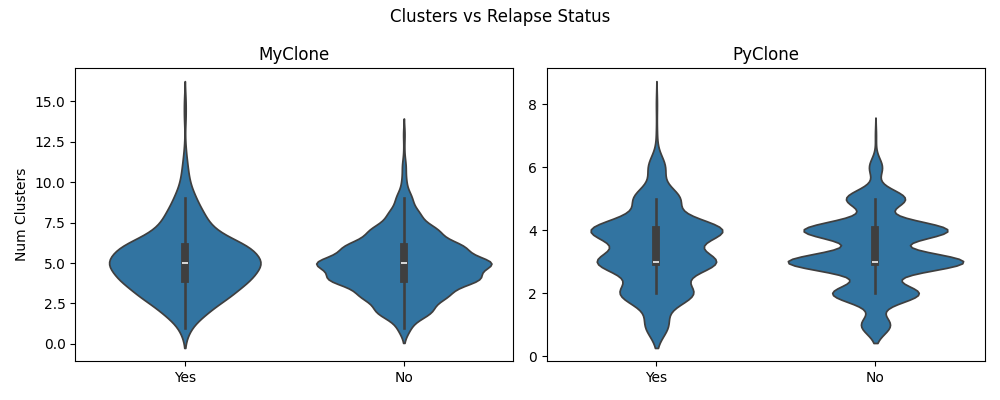
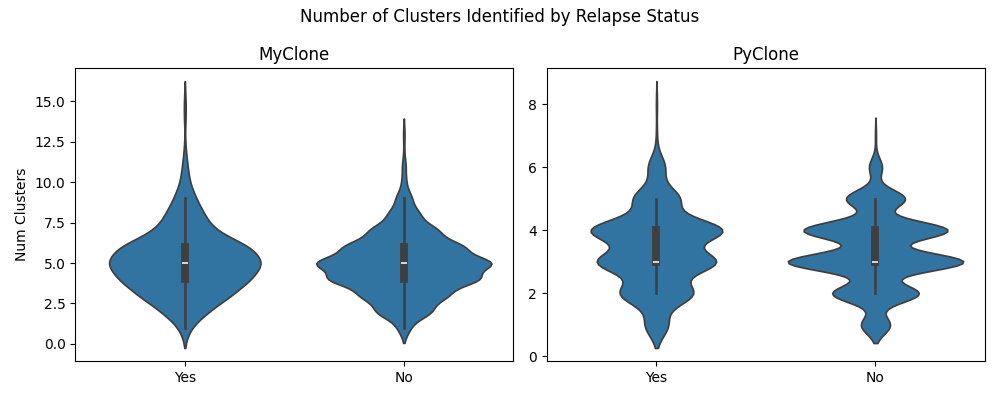
added legend to clonal population fig

Changed region(s): [[0.279, 0.0, 0.713, 0.06]]

diff --git a/generate_figures_combined.py b/generate_figures_combined.py
@@ -3,24 +3,14 @@ import matplotlib.pyplot as plt
 import seaborn as sns
 import os
 
-# ----------------------------
-# Paths
-# ----------------------------
 myclone_path = "/Users/charlottecheung/Developer/FCBBioInfo/fcbbioProject/myclone-output_combined/myclone_results_combined.tsv"
 pyclone_path = "/Users/charlottecheung/Developer/FCBBioInfo/fcbbioProject/pyclone_output_combined/pyclone_output_combined.tsv"
 
 os.makedirs("figures", exist_ok=True)
 
-# ----------------------------
-# Load data
-# ----------------------------
 myclone = pd.read_csv(myclone_path, sep="\t")
 pyclone = pd.read_csv(pyclone_path, sep="\t")
 
-
-# =========================================================
-# Helper function: cluster counts per sample
-# =========================================================
 def get_clusters(df):
     return (
         df.groupby("sample_id")["cluster_id"]
@@ -32,10 +22,6 @@ def get_clusters(df):
 my_clusters = get_clusters(myclone)
 py_clusters = get_clusters(pyclone)
 
-
-# =========================================================
-# Merge metadata once
-# =========================================================
 my_meta = myclone[["sample_id", "relapse_status", "MRD_EOI_Pct", "shannon_index"]].drop_duplicates()
 py_meta = pyclone[["sample_id", "relapse_status", "MRD_EOI_Pct", "shannon_index"]].drop_duplicates()
 
@@ -44,9 +30,7 @@ my_clusters = my_clusters.merge(my_meta, on="sample_id")
 py_clusters = py_clusters.merge(py_meta, on="sample_id")
 
 
-# =========================================================
-# 1. Number of clusters per sample (distribution)
-# =========================================================
+#figure: number of clusters per sample
 plt.figure(figsize=(10,4))
 
 plt.subplot(1,2,1)
@@ -58,16 +42,14 @@ plt.subplot(1,2,2)
 sns.violinplot(y=py_clusters["num_clusters"])
 plt.title("PyClone")
 
-plt.suptitle("Number of Clusters per Sample")
+plt.suptitle("Number of Clusters Identified per Sample")
 plt.tight_layout()
 
 plt.savefig("figures/compare_num_clusters_violin.png")
 plt.close()
 
 
-# =========================================================
-# 2. Clusters vs relapse
-# =========================================================
+#figure: number of clusters per sample, relapse vs non relapse
 plt.figure(figsize=(10,4))
 
 plt.subplot(1,2,1)
@@ -82,16 +64,13 @@ plt.title("PyClone")
 plt.xlabel("")
 plt.ylabel("")
 
-plt.suptitle("Clusters vs Relapse Status")
+plt.suptitle("Number of Clusters Identified by Relapse Status")
 plt.tight_layout()
 
 plt.savefig("figures/compare_clusters_vs_relapse.png")
 plt.close()
 
-
-# =========================================================
-# 3. MRD vs clusters
-# =========================================================
+#figure: number of clusters per sample vs MRD
 plt.figure(figsize=(10,4))
 
 plt.subplot(1,2,1)
@@ -106,16 +85,13 @@ plt.title("PyClone")
 plt.xlabel("Clusters")
 plt.ylabel("")
 
-plt.suptitle("MRD vs Clonal Complexity")
+plt.suptitle("MRD vs Number of Clones Identified")
 plt.tight_layout()
 
 plt.savefig("figures/compare_mrd_vs_clusters.png")
 plt.close()
 
-
-# =========================================================
-# 4. Shannon index distribution
-# =========================================================
+#figure: Shannon index per sample
 plt.figure(figsize=(10,4))
 
 plt.subplot(1,2,1)
@@ -126,16 +102,13 @@ plt.subplot(1,2,2)
 sns.violinplot(y=py_clusters["shannon_index"])
 plt.title("PyClone")
 
-plt.suptitle("Shannon Index Distribution")
+plt.suptitle("Clonal Diversity")
 plt.tight_layout()
 
 plt.savefig("figures/compare_shannon_violin.png")
 plt.close()
 
-
-# =========================================================
-# 5. Shannon vs relapse
-# =========================================================
+#figure: Shannon index per sample relapse vs non-relapse
 my_shannon = my_meta[["sample_id", "shannon_index"]]
 py_shannon = py_meta[["sample_id", "shannon_index"]]
 
@@ -152,16 +125,13 @@ plt.subplot(1,2,2)
 sns.violinplot(data=py_shannon, x="relapse_status", y="shannon_index")
 plt.title("PyClone")
 
-plt.suptitle("Shannon Index vs Relapse")
+plt.suptitle("Clonal Diversity by Relapse Status")
 plt.tight_layout()
 
 plt.savefig("figures/compare_shannon_vs_relapse.png")
 plt.close()
 
-
-# =========================================================
-# 6. Shannon vs MRD
-# =========================================================
+#figure: shannon index per sample vs MRD
 plt.figure(figsize=(10,4))
 
 plt.subplot(1,2,1)
@@ -182,10 +152,7 @@ plt.tight_layout()
 plt.savefig("figures/compare_mrd_vs_shannon.png")
 plt.close()
 
-
-# =========================================================
-# 7. Clonal vs subclonal barplot (relapse comparison)
-# =========================================================
+#figure: Subclonal vs clonal by CCF
 def clonal_bar(df, meta, title, ax):
     df = df.copy()
     df["clone_type"] = df["cellular_prevalence"].apply(lambda x: "clonal" if x >= 0.5 else "subclonal")
@@ -208,12 +175,29 @@ def clonal_bar(df, meta, title, ax):
     ax.legend().remove()
 
 
-fig, axes = plt.subplots(1,2, figsize=(10,4))
+fig, axes = plt.subplots(1, 2, figsize=(10, 6), constrained_layout=True)
 
 clonal_bar(myclone, my_meta, "MyClone", axes[0])
 clonal_bar(pyclone, py_meta, "PyClone", axes[1])
 
-plt.suptitle("Clonal vs Subclonal Mutations")
-plt.tight_layout()
-plt.savefig("figures/compare_clonal_subclonal.png")
+handles, labels = axes[0].get_legend_handles_labels()
+
+fig.legend(
+    handles,
+    labels,
+    title="Clone Type",
+    loc="center left",
+    bbox_to_anchor=(1.02, 0.5),
+    ncol=1
+)
+
+
+fig.suptitle("Percentage of Clonal vs Subclonal Mutations", y=1.05)
+
+plt.savefig(
+    "figures/compare_clonal_subclonal.png",
+    bbox_inches="tight",
+    dpi=300
+)
+
 plt.close()
